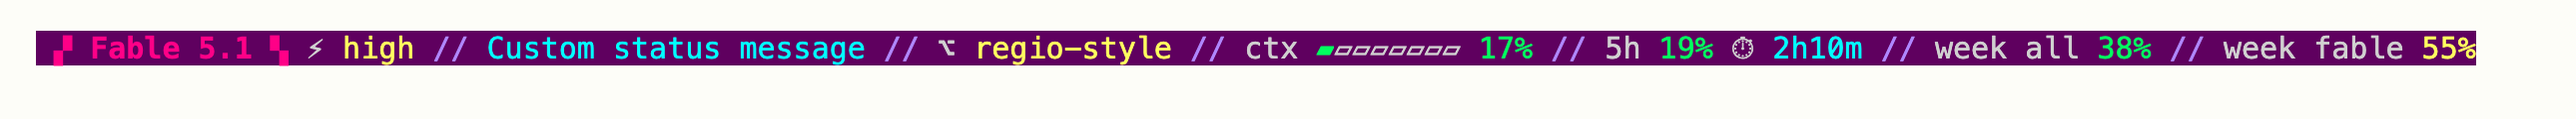
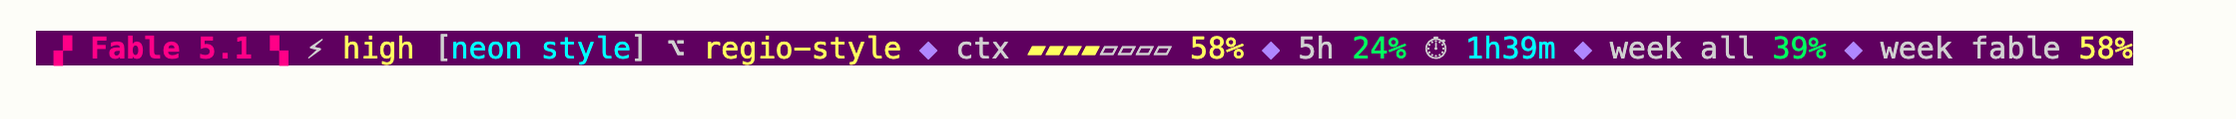
neon style: diamond separators, bracketed session name as its own delimiter

Changed region(s): [[0.0, 0.25, 0.9688, 0.55]]

diff --git a/README.md b/README.md
@@ -53,7 +53,7 @@ A neon take on the same data, plus the git branch and the 5-hour window:
 
 <img alt="neon style: model, session, branch, context bar, 5-hour window with time left, weekly all and weekly fable" src="neon.png" />
 
-- Hot-pink model, cyan session, yellow branch, lilac `//` separators, all on a plum pill.
+- Hot-pink model, cyan session in brackets, yellow branch, lilac `◆` separators, all on a plum pill.
 - The model name drops its parenthetical (so "Opus 5 (1M context)" shows as "Opus 5") and is
   followed by the session's effort level.
 - Context gets an 8-block bar next to the percentage.
